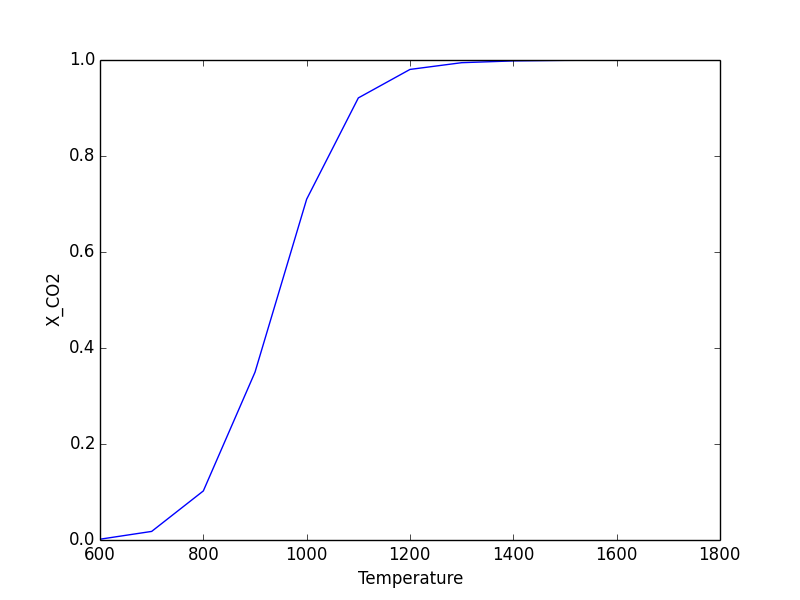
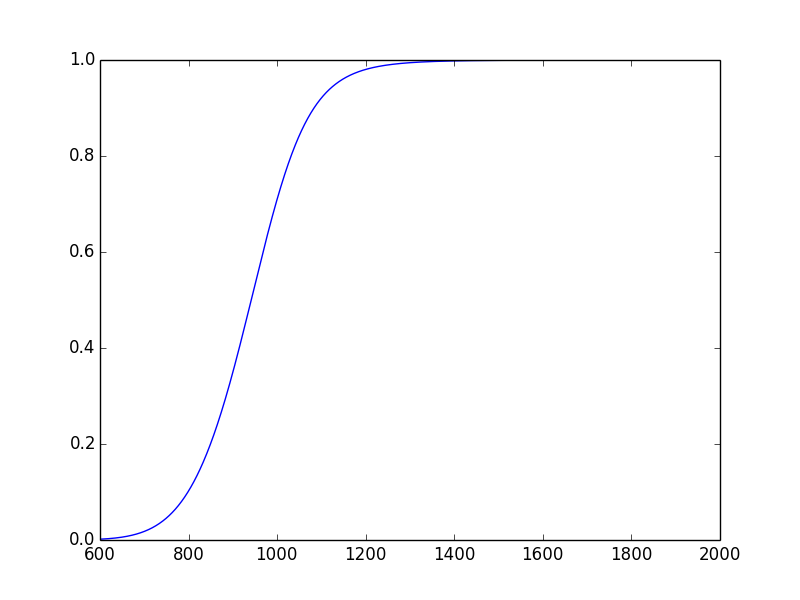
Activity of carbon graph

diff --git a/phase.py b/phase.py
@@ -2,8 +2,33 @@ import math
 import numpy as np
 import matplotlib.pyplot as plt
 
+
 def main():
-	
+	x = np.arange(600,1900,1)
+	k = np.exp(5.292-(6663.46/x))
+	y = k/(1+k)
+	plt.plot(x,y,"-")
+	plt.show()
+
+
+
+
+def KFeFeO(temperature):
+	k = np.exp(5.292-(6663.46/temperature))
+	return k/(1+k)
+
+def kFeFe3O4(temperature):
+	k = np.exp(1.016-(643.493/temperature))	
+	return k/(k+1)
+
+def GFeFeO(temperature):
+	return (-263700 + (64.3*temperature))
+
+def GFeOFe3O4(temperature):
+	return (-311100+(114.5*temperature))
+
+def GFeFe3O4(temperature):
+	return (-1102200 + (307.4*temperature))
 
 
 

diff --git a/assignment3.py b/assignment3.py
@@ -14,9 +14,15 @@ def main():
 	plt.figure()
 	CS = plt.contour(X, Y, A)
 	plt.clabel(CS, inline=1, fontsize=10)
-	plt.title('Simplest default with labels')
-	plt.ylabel('X_CO2')
+	plt.title('pO2 Contours')
+	plt.ylabel('X_CO')
 	plt.xlabel('Temperature')
+	plt.show()
+
+	k = np.exp((-166500+(171.1*x))/(8.314*x))
+	xCO = -1*k + np.sqrt(k*k + 4*k)
+	xCO = xCO/2
+	plt.plot(x,xCO,"-")
 	plt.show()
 
 			
